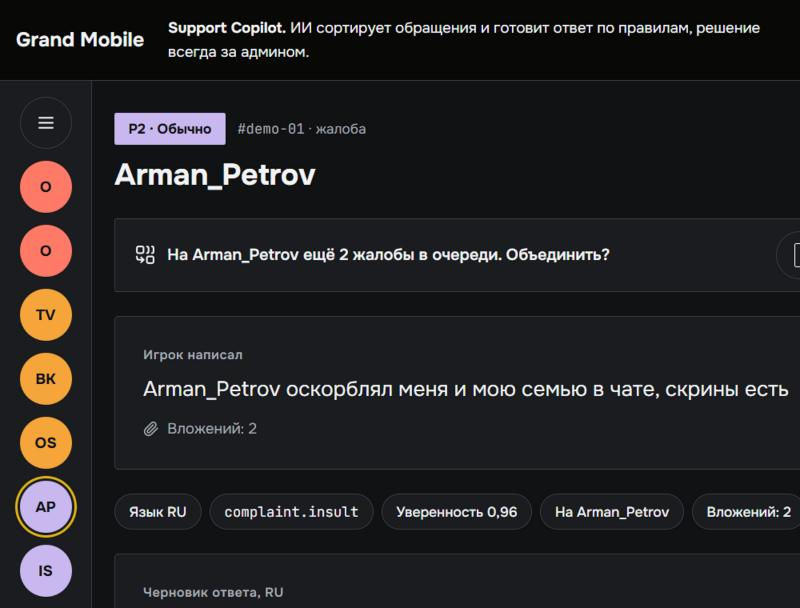
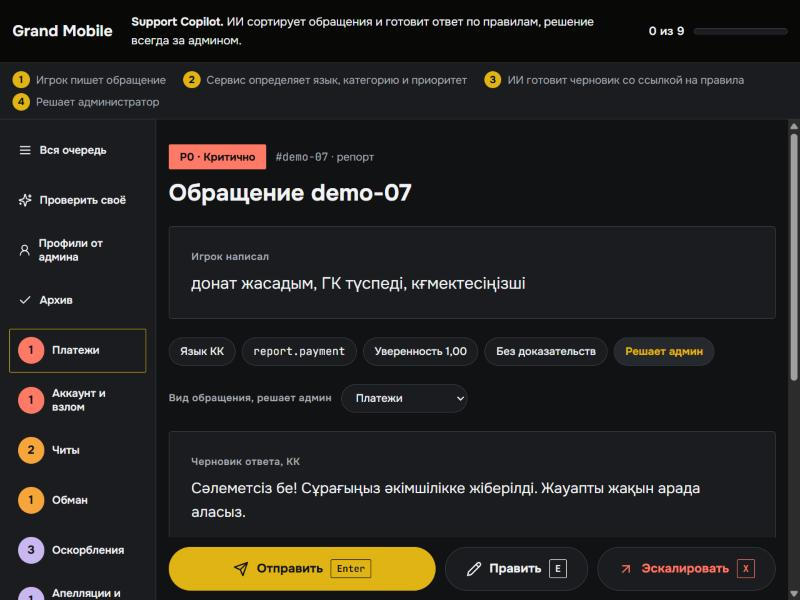
Документация: вход, архив, снимок интерфейса

diff --git a/README.md b/README.md
@@ -6,7 +6,7 @@
 
 ![Очередь админа: обращение, факты и черновик ответа](docs/admin.jpg)
 
-*Интерфейс админа на придуманных обращениях. Главный продукт — сервис `POST /triage`, интерфейс показывает, как с ним работать.*
+*Интерфейс админа на придуманных обращениях. Главный продукт — сервис `POST /triage`, интерфейс показывает, как с ним работать. Входа для админов нет: это демо для локального запуска, перед размещением в сети доступ нужно закрыть.*
 
 ## Где что
 
@@ -148,7 +148,7 @@ docs/           отчёт и примеры
 
 ## Бонусы из ТЗ
 
-- **Интерфейс админа:** очередь, черновик, генерация ответа под выбранный исход, «отправить / править / эскалировать», правки сохраняются в `artifacts/feedback.jsonl` как обучающий сигнал.
+- **Интерфейс админа:** очередь, черновик, генерация ответа под выбранный исход, «отправить / править / эскалировать», правки сохраняются в `artifacts/feedback.jsonl` как обучающий сигнал. В архиве видно время рассмотрения. Через 30 дней сайт предлагает удалить обращение, но сам ничего не удаляет; эскалированные не удаляются, пока игрок ждёт человека. Поиск по нику работает при сохранении профиля.
 - **Дедупликация:** дубли за час отсеиваются в `make predict` и сервисе, серии жалоб на одного игрока объединяются в очереди одной кнопкой.
 - **Шаблоны по кластерам:** частые ответы админов на репорты собираются автоматически.
 - **Сверх ТЗ, профиль игрока:** сколько жалоб подал, чем они закончились, сколько жалоб на него самого. Админ может сам менять вид обращения и добавлять свой профиль игрока по шаблону. Это только подсказка: ответ сервиса от профиля не зависит. На будущих жалобах одобрение растёт с 37% до 69% вместе с историей заявителя и с 20% до 54% с историей обвиняемого.

diff --git a/docs/REPORT.md b/docs/REPORT.md
@@ -136,7 +136,7 @@
 ## Казахский и узбекский
 
 - Казахские шаблоны ответов написал носитель языка из команды, узбекские — подготовлены с LLM по образцу реальных
-  ответов админов (`copilot/templates.py`).
+  ответов админов (`copilot/templates.py`), носителем не проверены.
 - Репорты на kk/uz отвечаются этими шаблонами без LLM; для жалоб шаблоны идут в LLM как образцы стиля.
 - Казахский текст из cp1251 (ќ, ґ, ѕ, є, ј, ў, ї) восстанавливается до любой обработки. ТЗ ссылается на таблицу замен в README данных, но в выданном README её нет: замены взяты из самого ТЗ.
 - На en/es/pt без LLM шаблонов нет: такой тикет получает нейтральную передачу старшему на языке игрока и идёт человеку.
